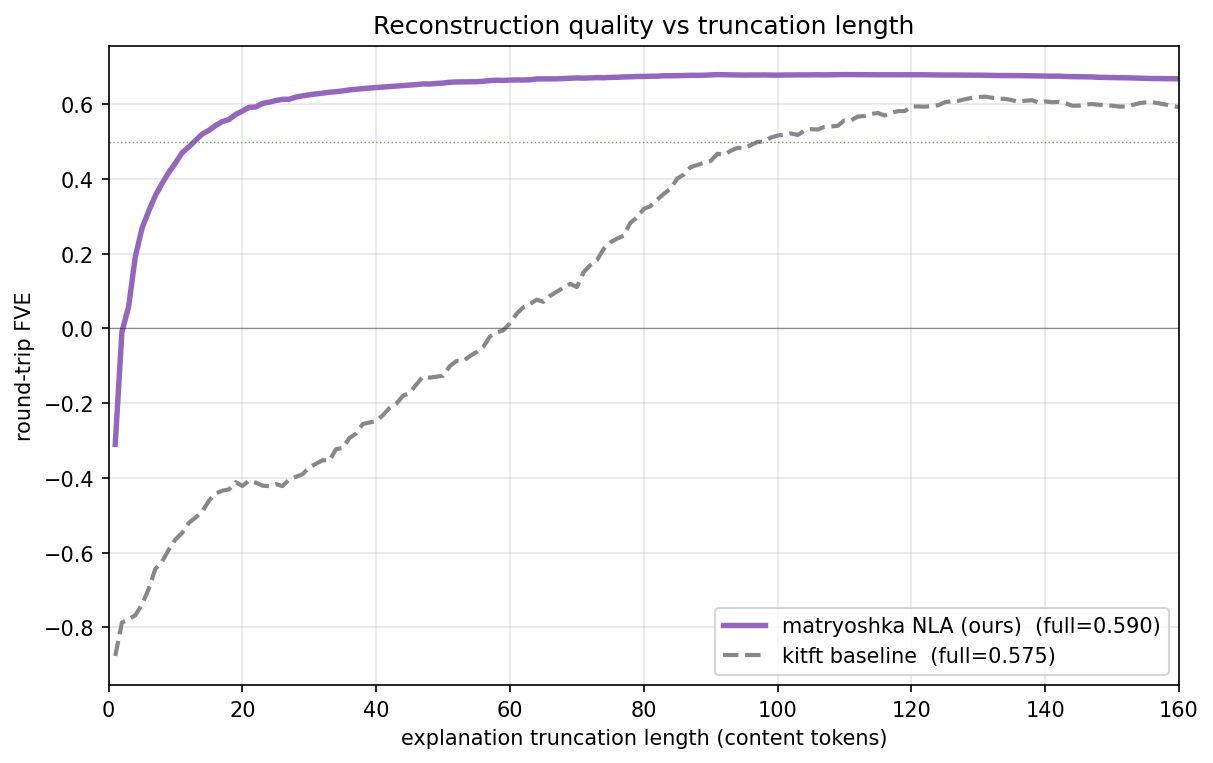
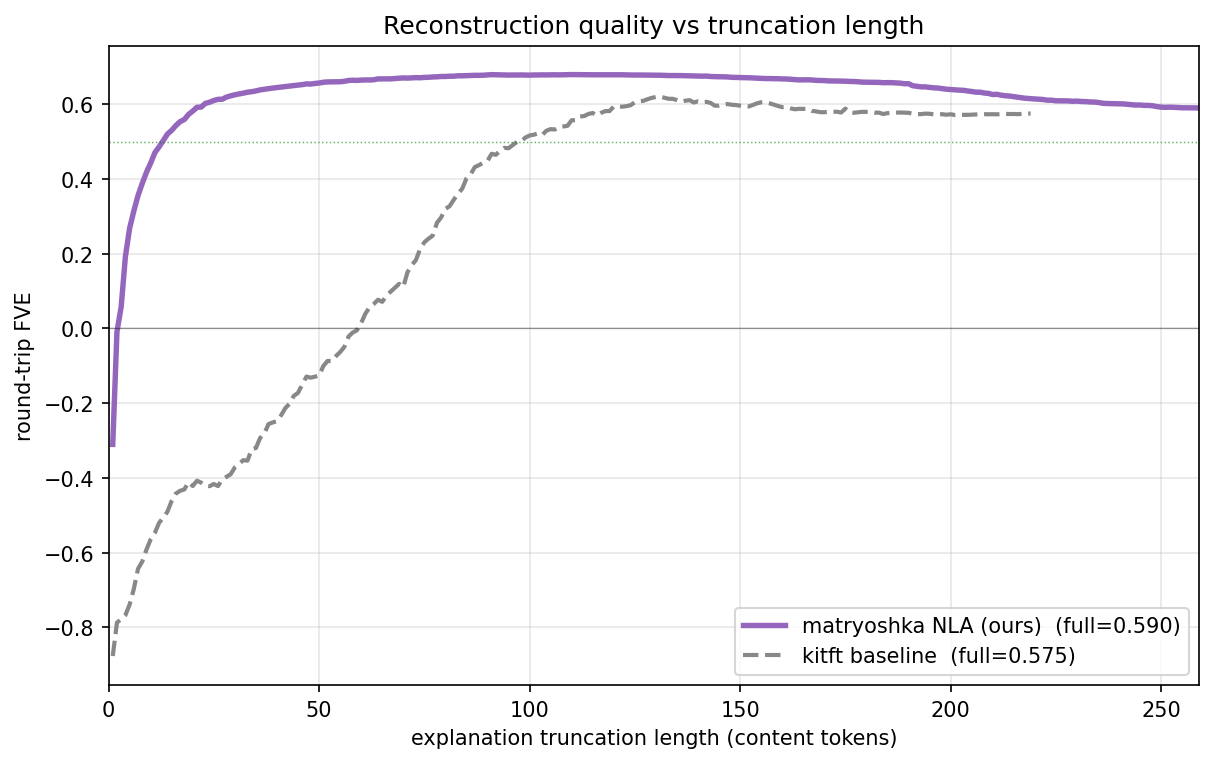
📊 fig1a: extend x to full curve range (no crossover — ours >= kitft at every shared length)
Claude-Session: https://claude.ai/code/session_013QpD8gUKVwdg5FeGc2gDm2

diff --git a/experiments/qwen2.5-matryoshka-warmstart-sonnet46/post_figs/plot_post_figs.py b/experiments/qwen2.5-matryoshka-warmstart-sonnet46/post_figs/plot_post_figs.py
@@ -41,12 +41,14 @@ kL, kF = load("token_fve_t1_kitft.csv", XCAP)
 if tL is not None and kL is not None:
     _, tFfull = load("token_fve_t1_iter0000200.csv")
     _, kFfull = load("token_fve_t1_kitft.csv")
+    tLf, tFf = load("token_fve_t1_iter0000200.csv")
+    kLf, kFf = load("token_fve_t1_kitft.csv")
     fig, a1 = plt.subplots(figsize=(8.2, 5.2))
-    a1.plot(tL, tF, color=C_OURS, lw=2.6, label=f"{OURS}  (full={tFfull[-1]:.3f})")
-    a1.plot(kL, kF, color=C_BASE, lw=2.0, ls="--", label=f"{BASE}  (full={kFfull[-1]:.3f})")
+    a1.plot(tLf, tFf, color=C_OURS, lw=2.6, label=f"{OURS}  (full={tFfull[-1]:.3f})")
+    a1.plot(kLf, kFf, color=C_BASE, lw=2.0, ls="--", label=f"{BASE}  (full={kFfull[-1]:.3f})")
     a1.axhline(0, color="k", lw=.6, alpha=.4); a1.axhline(0.5, color="green", lw=.7, ls=":", alpha=.6)
     a1.set_xlabel("explanation truncation length (content tokens)")
-    a1.set_ylabel("round-trip FVE"); a1.set_xlim(0, XCAP)
+    a1.set_ylabel("round-trip FVE"); a1.set_xlim(0, max(tLf.max(), kLf.max()))
     a1.set_title("Reconstruction quality vs truncation length")
     a1.grid(alpha=.3); a1.legend(loc="lower right", fontsize=10)
     fig.tight_layout(); fig.savefig(f"{HERE}/fig1a_fve_truncation.png", dpi=150, bbox_inches="tight")
